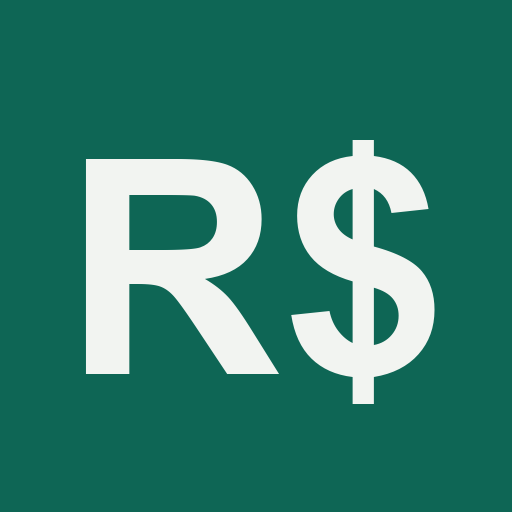
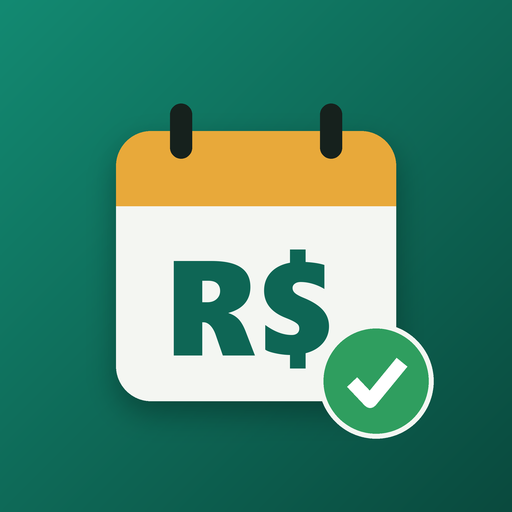
Ícone do app e do grupo

diff --git a/index.html b/index.html
@@ -9,8 +9,8 @@
 <meta name="apple-mobile-web-app-status-bar-style" content="default">
 <meta name="apple-mobile-web-app-title" content="Financeiro">
 <link rel="manifest" href="manifest.json">
-<link rel="apple-touch-icon" href="icon-512.png">
-<link rel="icon" href="icon-512.png">
+<link rel="apple-touch-icon" sizes="180x180" href="icon-180.png?v=2">
+<link rel="icon" href="icon-512.png?v=2">
 <link rel="stylesheet" href="https://fonts.googleapis.com/css2?family=Manrope:wght@600;800&family=IBM+Plex+Sans:wght@400;500;600&family=IBM+Plex+Mono:wght@500&display=swap">
 <script src="https://cdn.jsdelivr.net/npm/@supabase/supabase-js@2.45.4/dist/umd/supabase.min.js"></script>
 <script src="config.js?v=2"></script>
